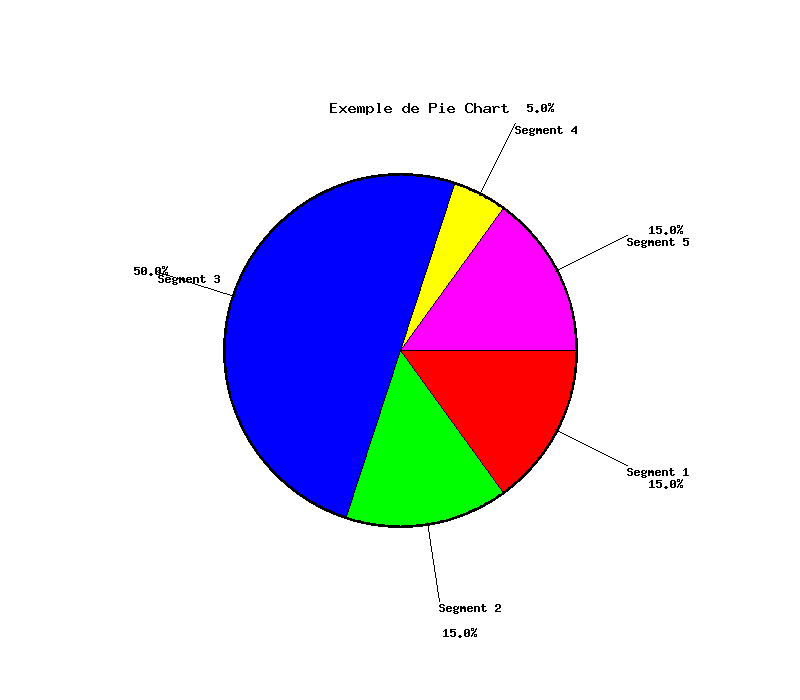
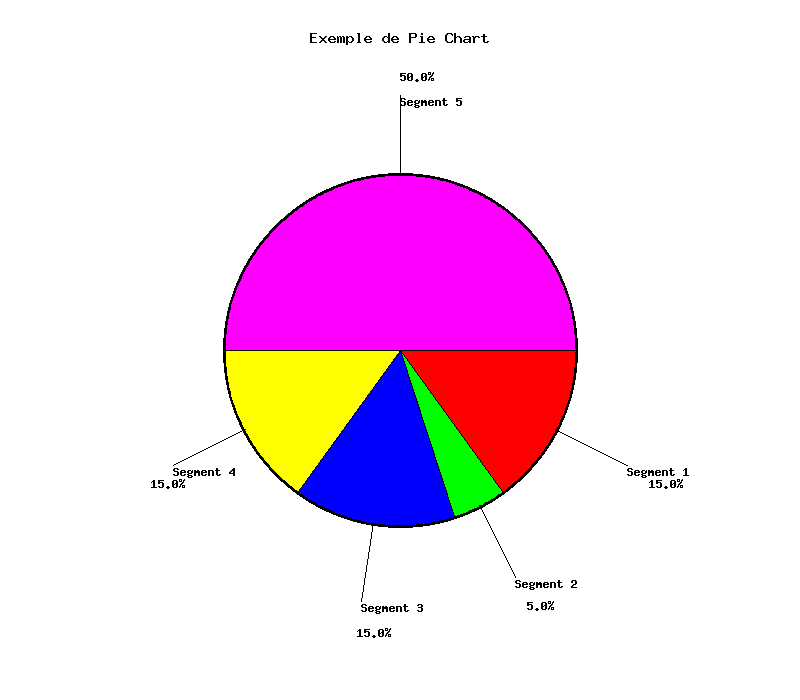
modification emplacement titre

diff --git a/piechart.c b/piechart.c
@@ -96,14 +96,13 @@ void createPieChart(PieSegment *segments, int numSegments, const char *outputFil
     }
 
     // Calculer la largeur du titre global
-    int titleWidth = gdFontMediumBold->w * strlen(title);
+    int titleWidth = gdFontGiant->w * strlen(title);
 
     // Calculer la position X pour centrer le titre horizontalement
     int titleX = centerX - (titleWidth / 2);
-    int titleY = 100; // Position verticale fixe pour le titre
+    int titleY = 30; // Position verticale pour le titre centré en haut de l'image
 
-    double titleScaleFactor = 1.5;
-    int titleFontSizeScaled = (int)(titleFontsize * titleScaleFactor);
+    // Afficher le titre centré en haut de l'image
     gdImageString(img, gdFontGiant, titleX, titleY, (unsigned char *)title, gdImageColorAllocate(img, 0, 0, 0));
 
     // Sauvegarder l'image dans le fichier de sortie
@@ -125,11 +124,11 @@ int main(int argc, char *argv[])
 
     // Exemple de données pour le Pie Chart
     PieSegment segments[] = {
-        {15.0, "Segment 1", 255, 0, 0},  // Rouge
-        {15.0, "Segment 2", 0, 255, 0},  // Vert
-        {50.0, "Segment 3", 0, 0, 255},  // Bleu
-        {5.0, "Segment 4", 255, 255, 0}, // Jaune
-        {15.0, "Segment 5", 255, 0, 255} // Violet
+        {15.0, "Segment 1", 255, 0, 0},   // Rouge
+        {5.0, "Segment 2", 0, 255, 0},    // Vert
+        {15.0, "Segment 3", 0, 0, 255},   // Bleu
+        {15.0, "Segment 4", 255, 255, 0}, // Jaune
+        {50.0, "Segment 5", 255, 0, 255}  // Violet
     };
 
     int numSegments = sizeof(segments) / sizeof(segments[0]);
